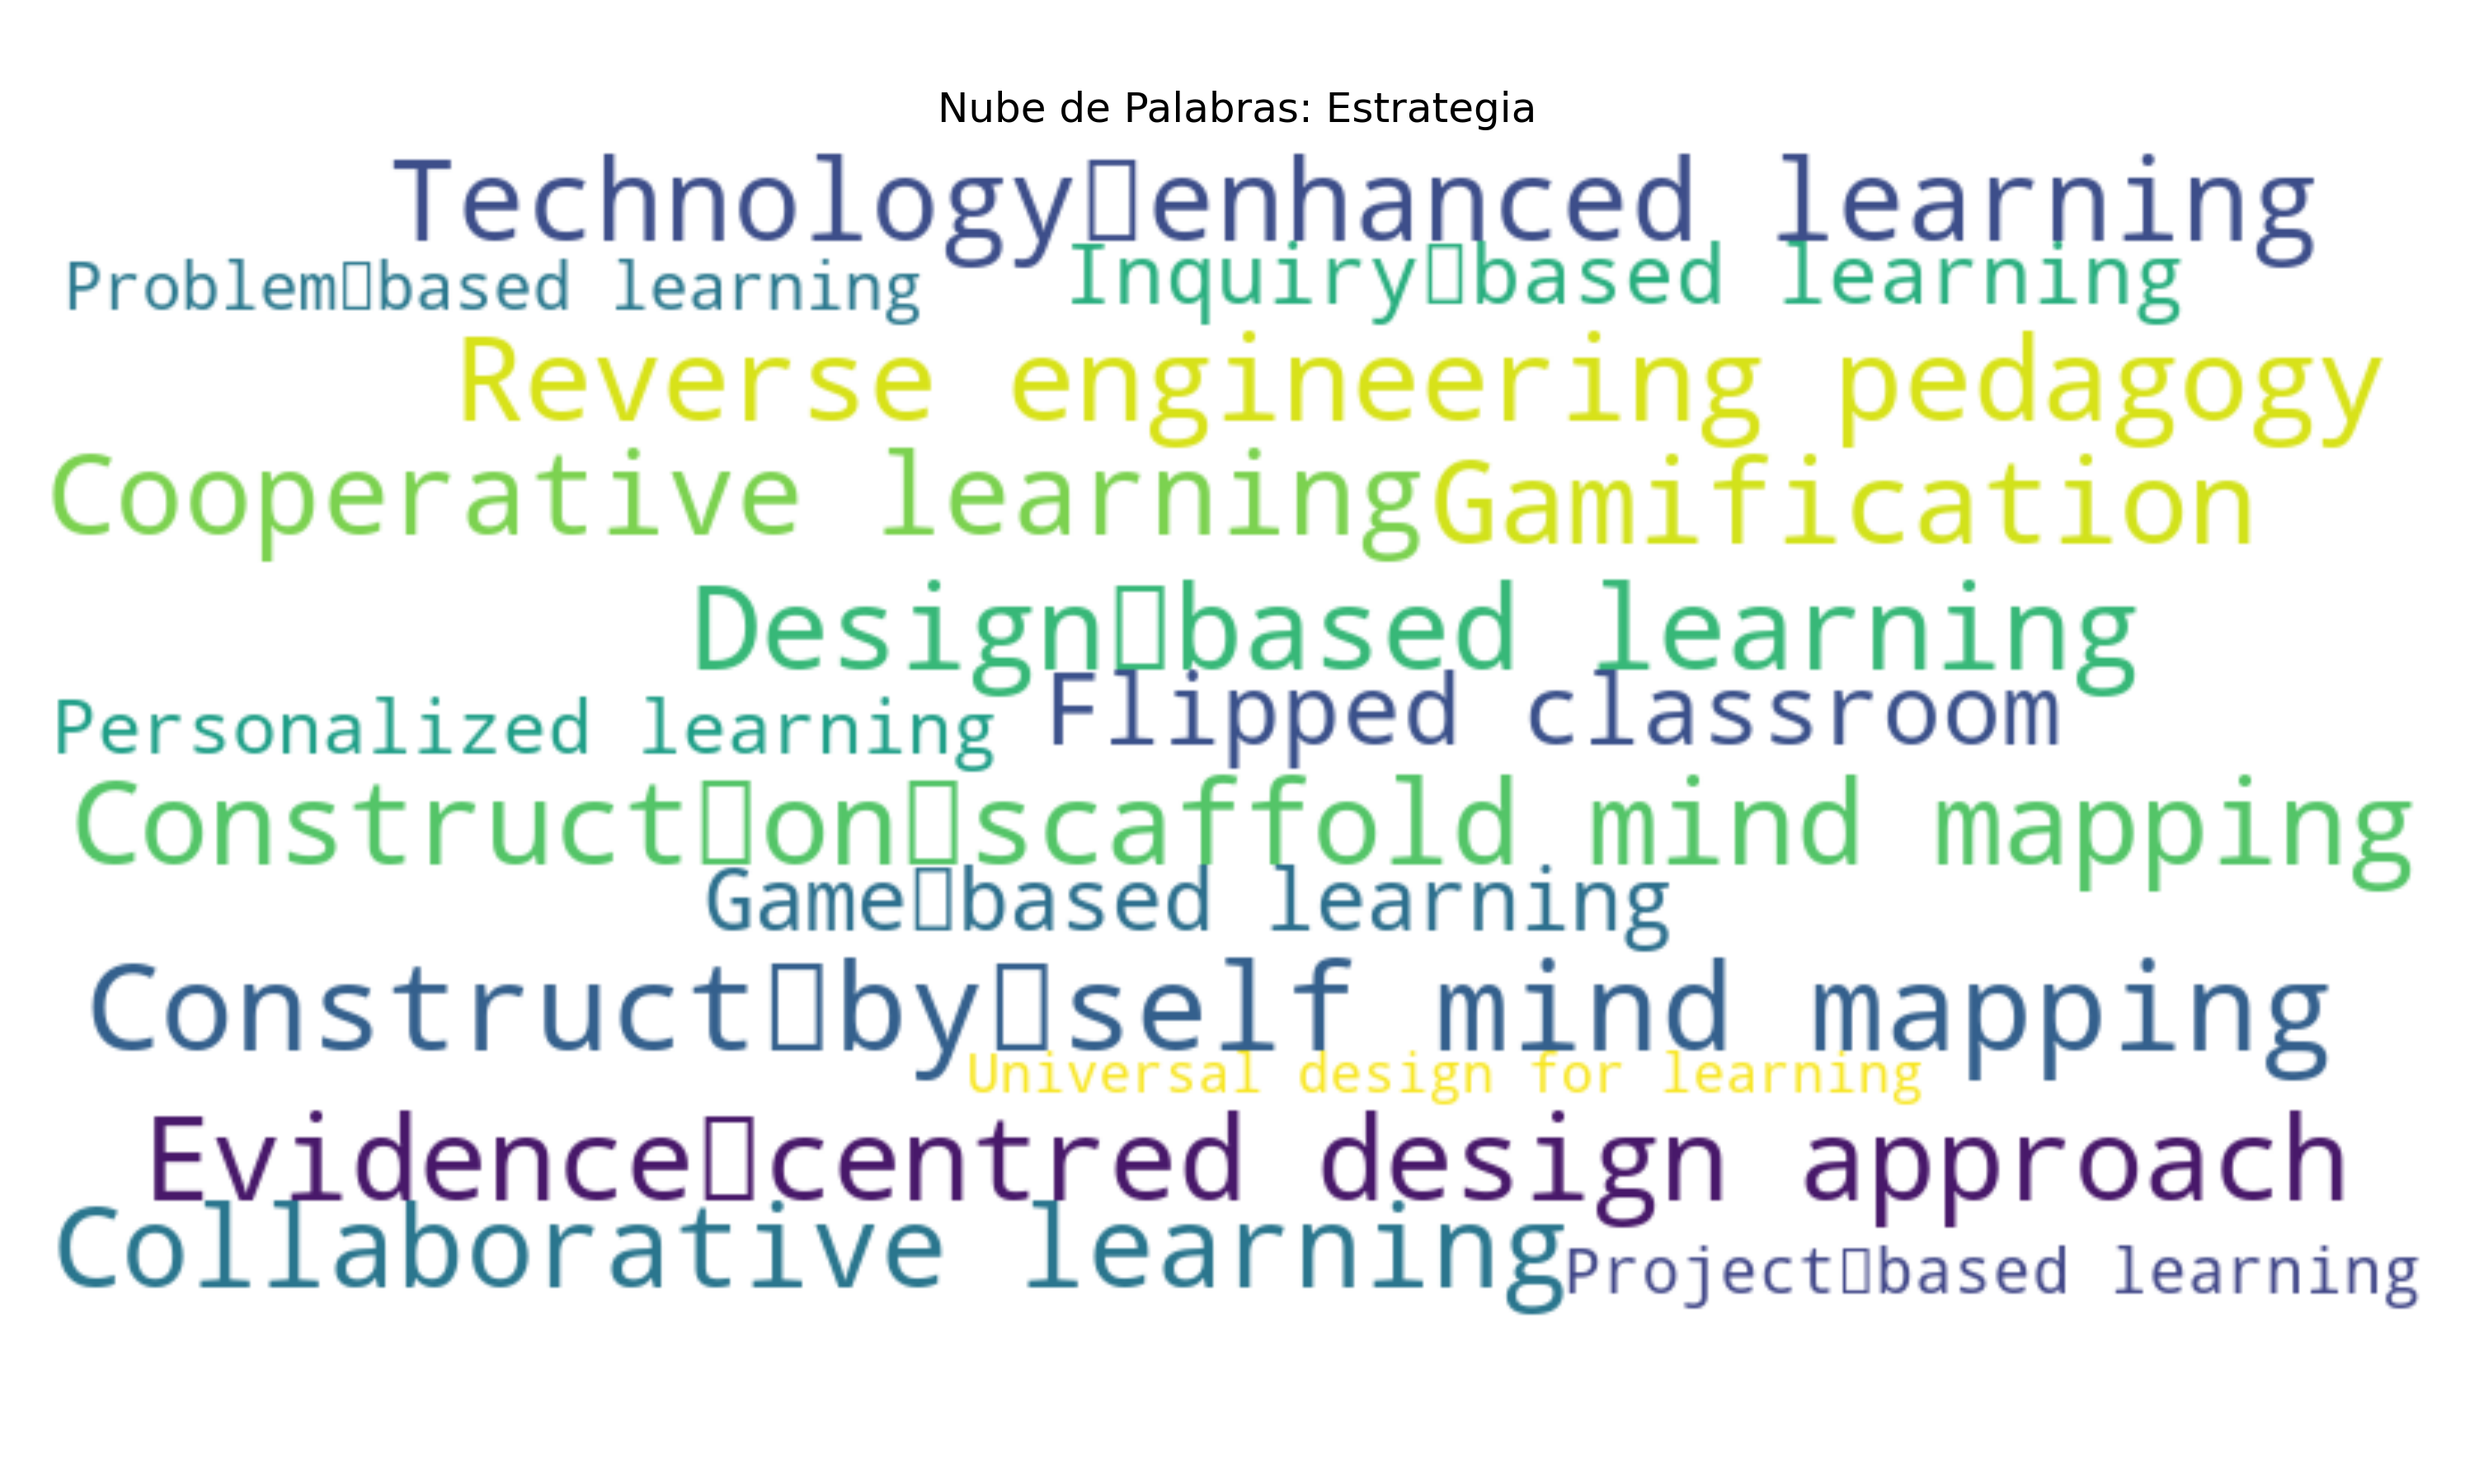
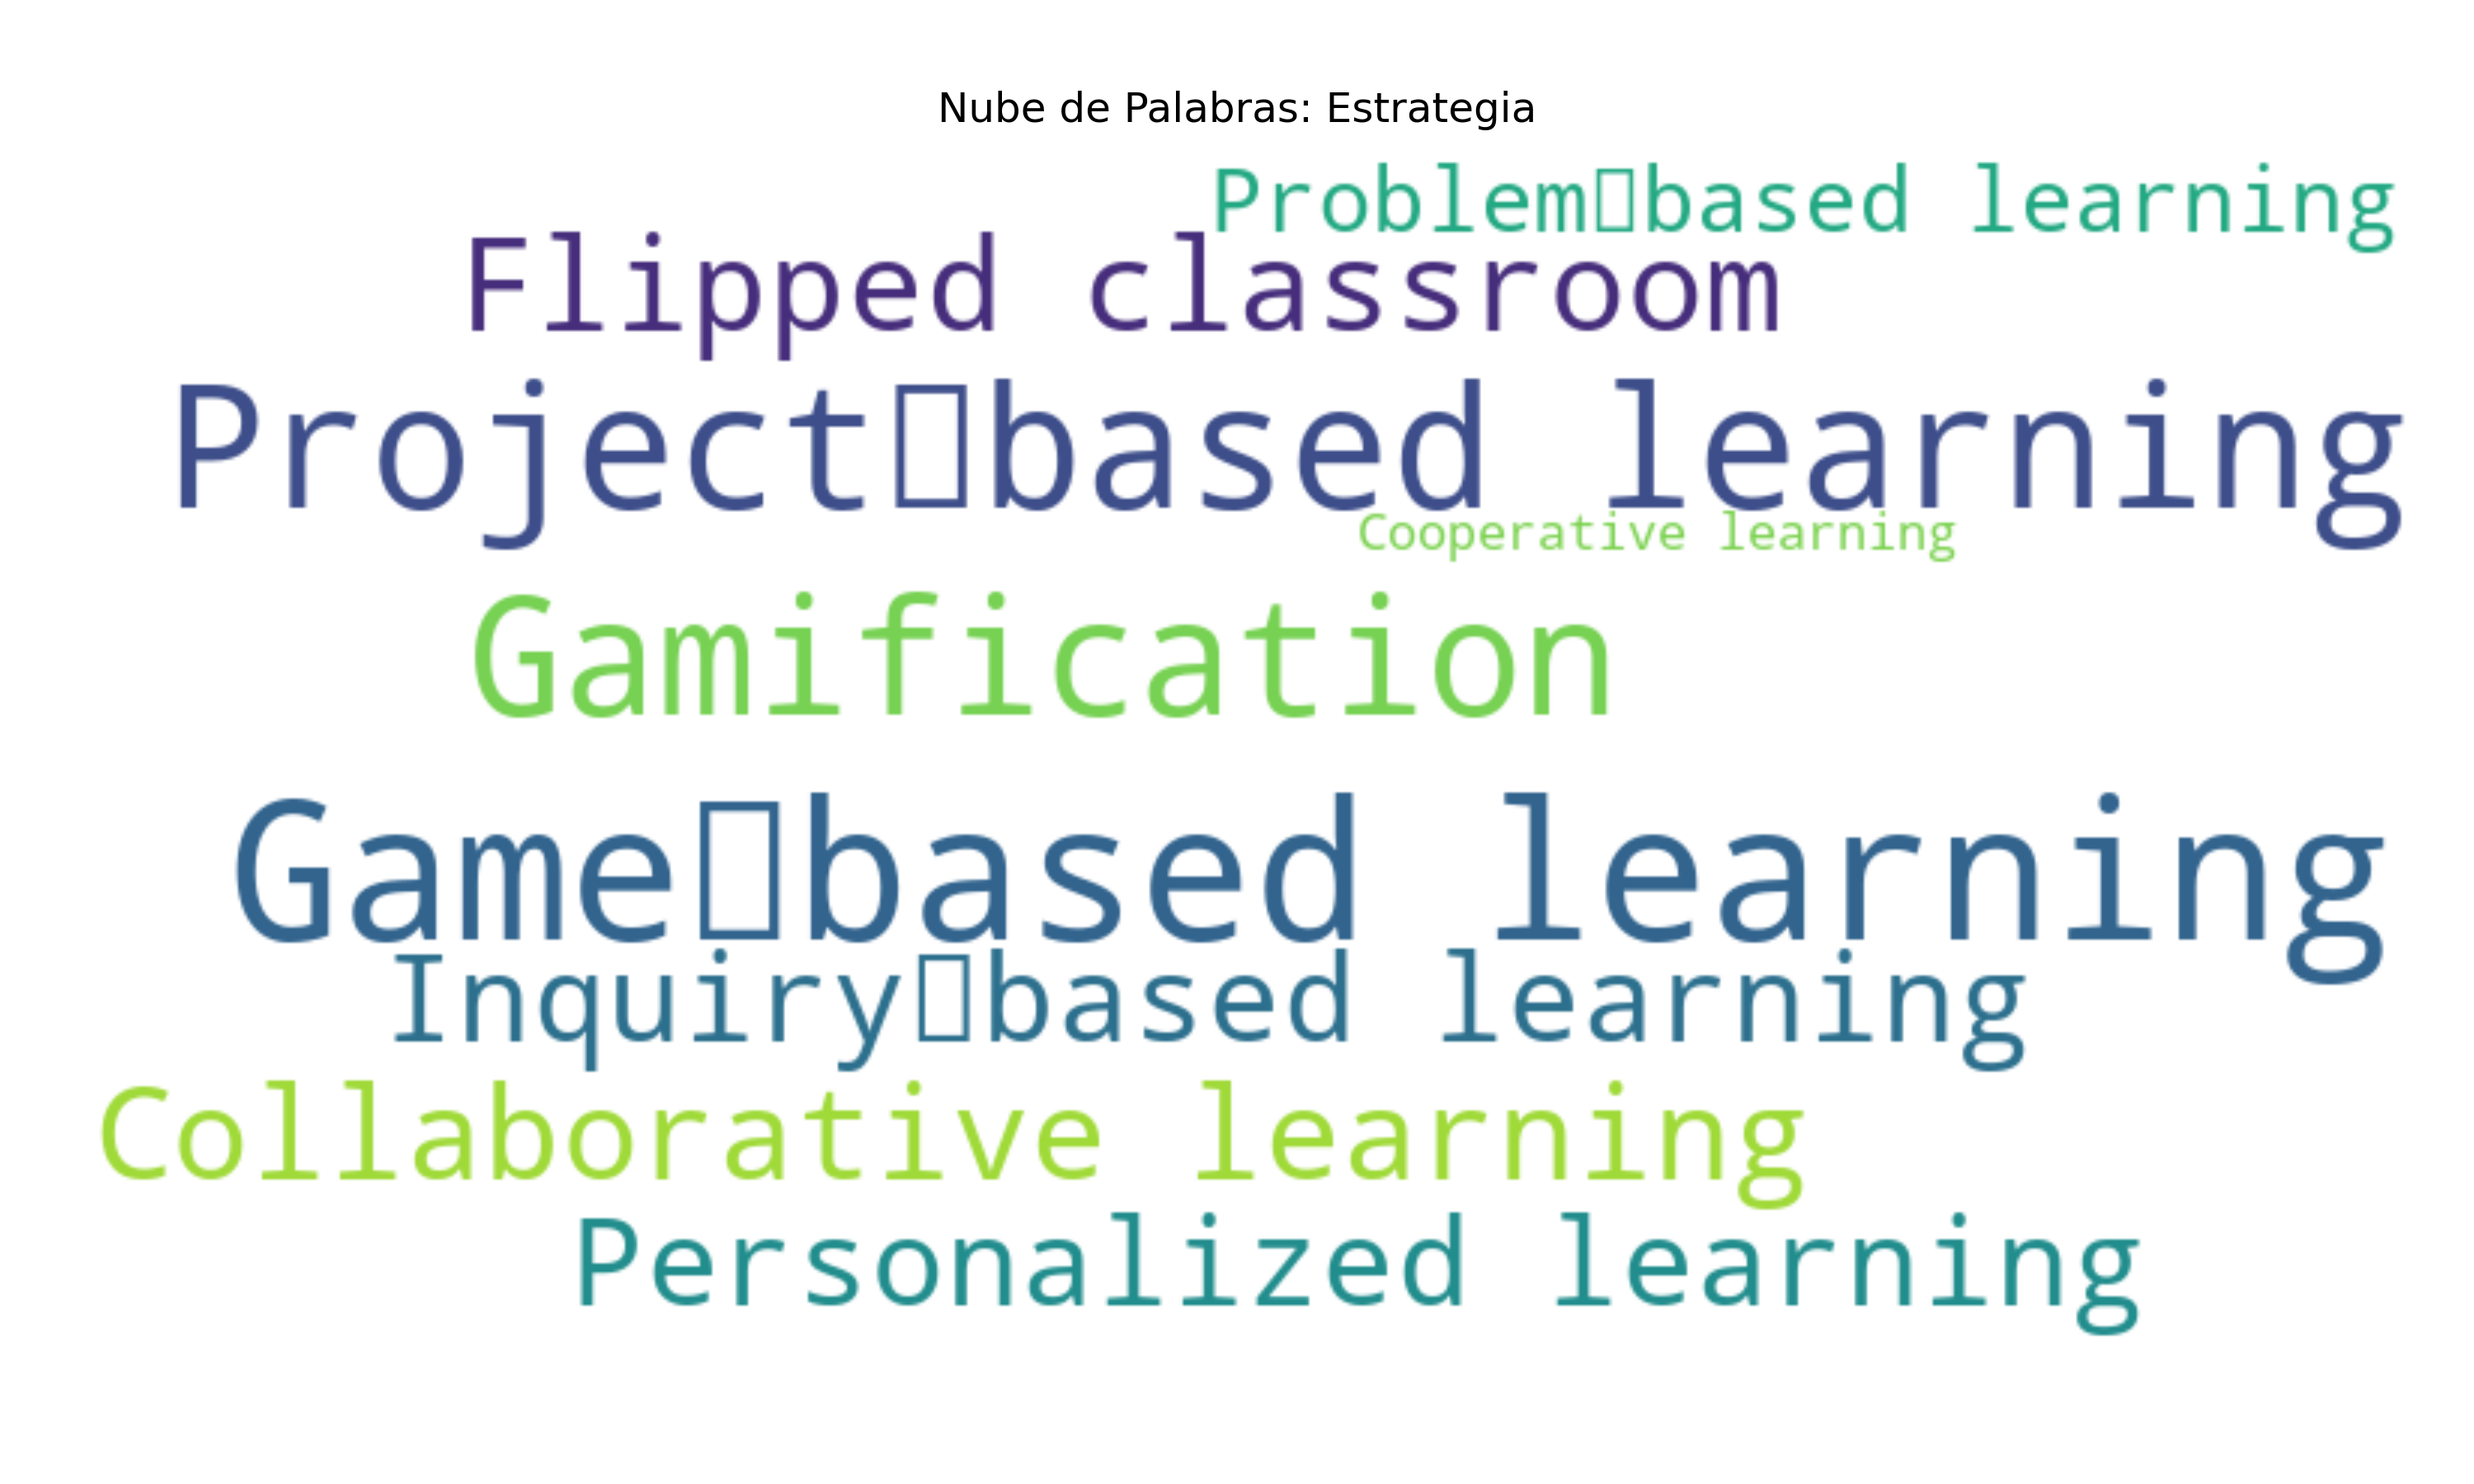
Ahora solamente usa datos REALES

Changed region(s): [[0.0, 0.0933, 0.992, 0.9022]]

diff --git a/src/frequency_analysis.py b/src/frequency_analysis.py
@@ -141,8 +141,8 @@ try:
         # Manejo flexible para extraer abstracts según diferentes estructuras posibles
         if isinstance(data, list):
             for item in data:
-                if isinstance(item, dict) and 'abstract_processed' in item:
-                    abstracts_processed.append(item['abstract_processed'])
+                if isinstance(item, dict) and 'abstract_original' in item:
+                    abstracts_processed.append(item['abstract_original'])
                 elif isinstance(item, dict) and 'processed_text' in item:
                     abstracts_processed.append(item['processed_text'])
                 elif isinstance(item, str):
@@ -150,80 +150,21 @@ try:
         elif isinstance(data, dict):
             if 'abstracts' in data and isinstance(data['abstracts'], list):
                 for item in data['abstracts']:
-                    if isinstance(item, dict) and 'abstract_processed' in item:
-                        abstracts_processed.append(item['abstract_processed'])
+                    if isinstance(item, dict) and 'abstract_original' in item:
+                        abstracts_processed.append(item['abstract_original'])
                     elif isinstance(item, str):
                         abstracts_processed.append(item)
             elif 'documents' in data and isinstance(data['documents'], list):
                 for item in data['documents']:
-                    if isinstance(item, dict) and 'abstract_processed' in item:
-                        abstracts_processed.append(item['abstract_processed'])
+                    if isinstance(item, dict) and 'abstract_original' in item:
+                        abstracts_processed.append(item['abstract_original'])
     
     print(f"Se cargaron {len(abstracts_processed)} abstracts procesados del archivo principal.")
     
-    # Si se cargaron muy pocos abstracts, intentar buscar en otras ubicaciones
-    if len(abstracts_processed) < 10:
-        print("Se encontraron pocos abstracts. Intentando buscar en directorios adicionales...")
-        
-        # Buscar en directory data y subdirectorios para otros archivos JSON
-        for root, dirs, files in os.walk("data"):
-            for file in files:
-                if file.endswith(".json") and "abstract" in file.lower() and not file.endswith("processed_abstracts.json"):
-                    try:
-                        with open(os.path.join(root, file), 'r', encoding='utf-8') as f:
-                            more_data = json.load(f)
-                            
-                            # Intenta extraer abstracts de este archivo
-                            if isinstance(more_data, list):
-                                for item in more_data:
-                                    if isinstance(item, dict) and ('abstract' in item or 'abstract_processed' in item):
-                                        if 'abstract_processed' in item:
-                                            abstracts_processed.append(item['abstract_processed'])
-                                        else:
-                                            # Si solo tiene abstract original, lo procesamos
-                                            text = item['abstract'].lower()
-                                            text = re.sub(r'[^\w\s-]', ' ', text)
-                                            text = re.sub(r'\s+', ' ', text).strip()
-                                            abstracts_processed.append(text)
-                        
-                        print(f"Archivo adicional encontrado: {file}, se añadieron más abstracts.")
-                    except Exception as e:
-                        print(f"Error al procesar archivo adicional {file}: {e}")
-                        
+              
 except Exception as e:
     print(f"Error al cargar los abstracts: {e}")
     abstracts_processed = []  # Inicializar como lista vacía en caso de error
-
-# Si después de intentar cargar más datos, sigue habiendo pocos abstracts, generar datos de prueba
-# para asegurar que se puedan generar las visualizaciones
-if len(abstracts_processed) < 20:
-    print("Generando datos de prueba para asegurar visualizaciones...")
-    test_abstracts = []
-    
-    # Crear abstracts sintéticos que incluyan todas las categorías y términos
-    for category, terms in categories.items():
-        for term in terms:
-            # Crear un abstract que contenga este término y algunos otros aleatorios
-            synthetic_abstract = f"This is a test abstract about {term}. "
-            synthetic_abstract += "It also mentions "
-            
-            # Añadir términos aleatorios de otras categorías
-            for other_category, other_terms in categories.items():
-                if other_category != category:
-                    random_term = np.random.choice(other_terms)
-                    synthetic_abstract += f"{random_term}, "
-            
-            synthetic_abstract += "and other related concepts."
-            
-            # Preprocesarlo como si fuera un abstract real
-            processed = synthetic_abstract.lower()
-            processed = re.sub(r'[^\w\s-]', ' ', processed)
-            processed = re.sub(r'\s+', ' ', processed).strip()
-            
-            test_abstracts.append(processed)
-    
-    abstracts_processed.extend(test_abstracts)
-    print(f"Se añadieron {len(test_abstracts)} abstracts de prueba para completar el conjunto de datos.")
 
 print(f"Total de abstracts procesados: {len(abstracts_processed)}")
 
@@ -320,15 +261,6 @@ def generate_wordcloud(frequencies, title, filename):
 
 # Generar Nubes de Palabras
 print("Generando nubes de palabras para todas las categorías...")
-
-# Si alguna categoría no tiene datos, generar datos sintéticos mínimos para visualización
-for category in categories.keys():
-    if not frequencies[category]:
-        print(f"Generando datos mínimos para la categoría: {category}")
-        # Añadir al menos algunos términos con frecuencias pequeñas
-        for term in categories[category]:
-            frequencies[category][term] = 1
-            all_frequencies[term] = all_frequencies.get(term, 0) + 1
 
 # Generar nube de palabras para cada categoría, ahora asegurándonos que todas tengan datos
 for category in categories.keys():
